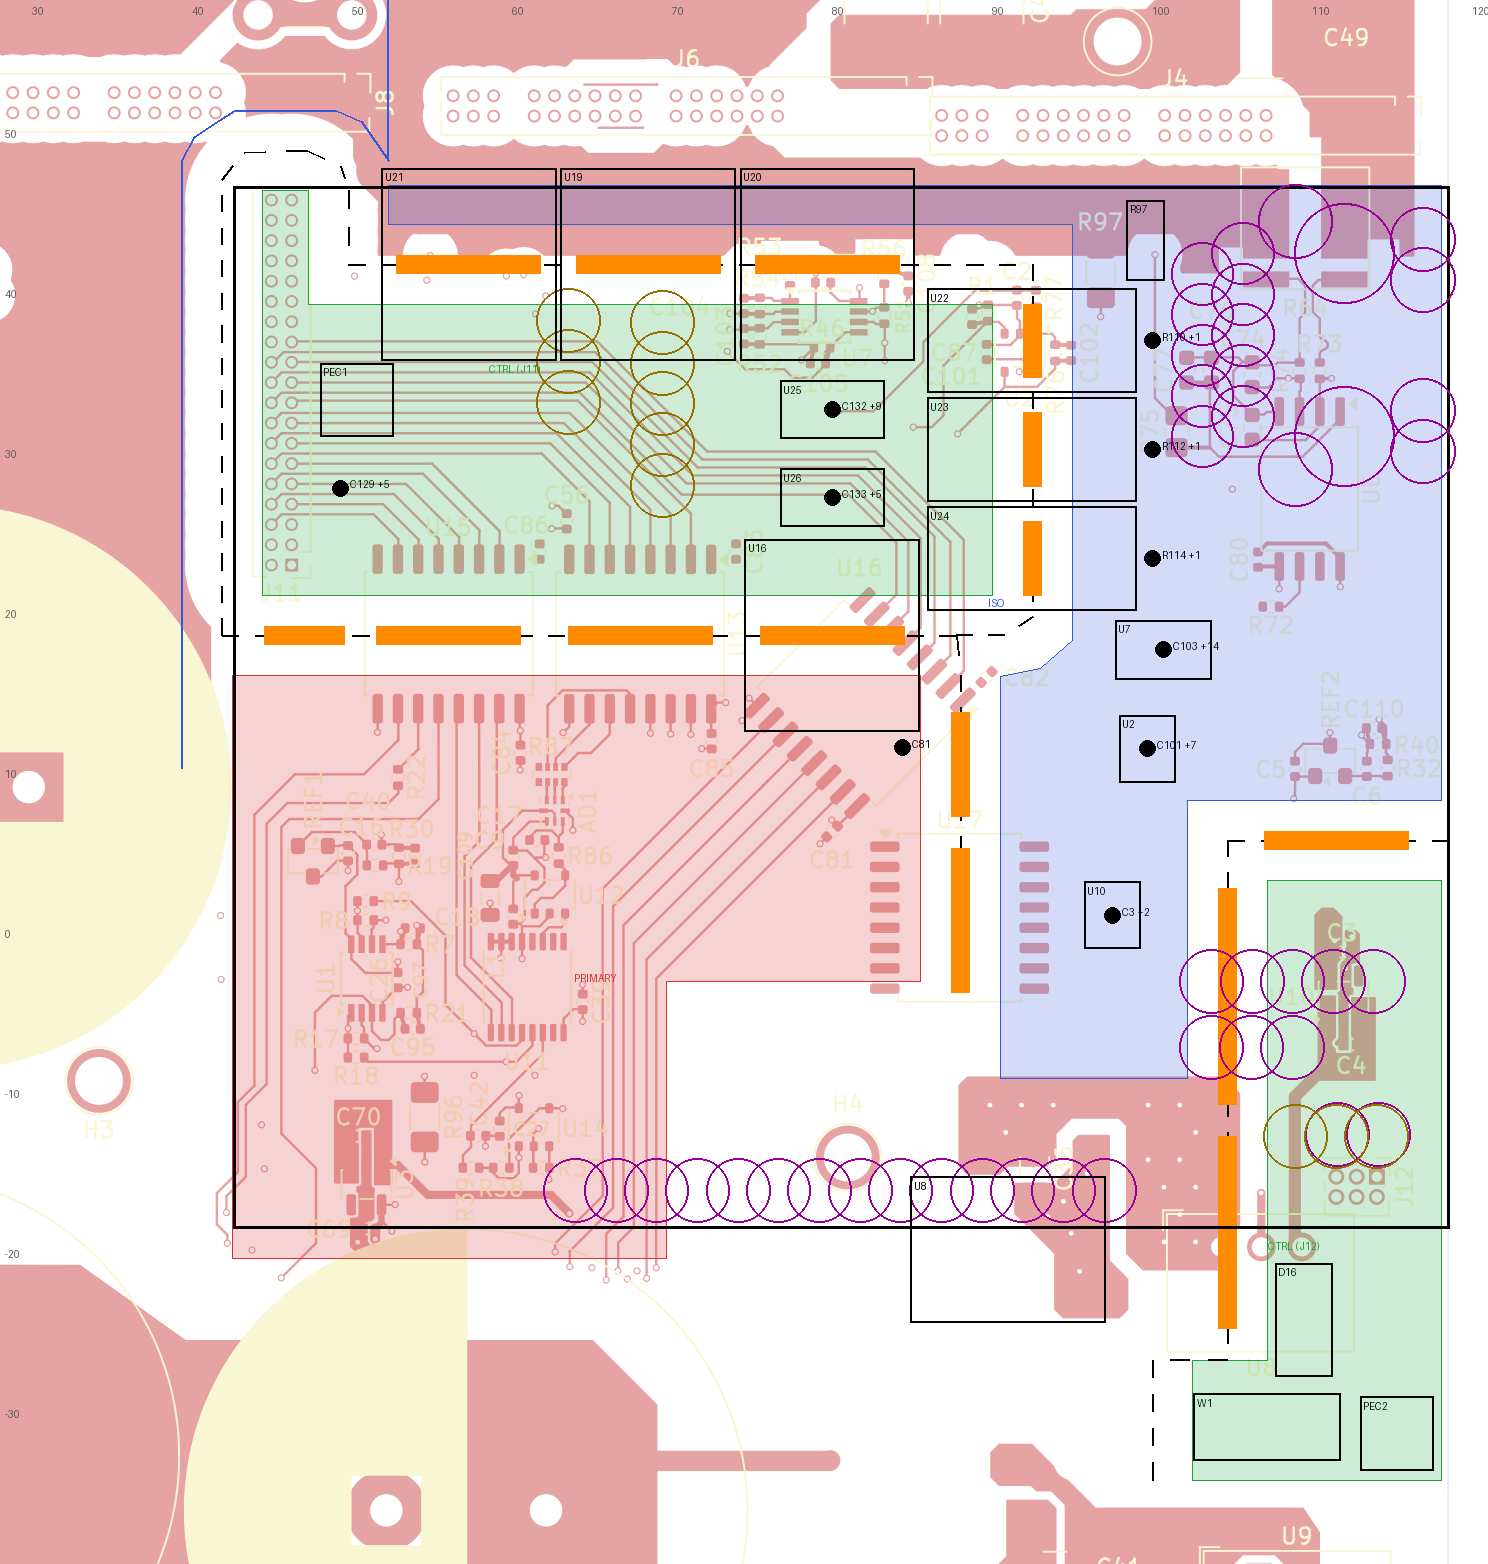
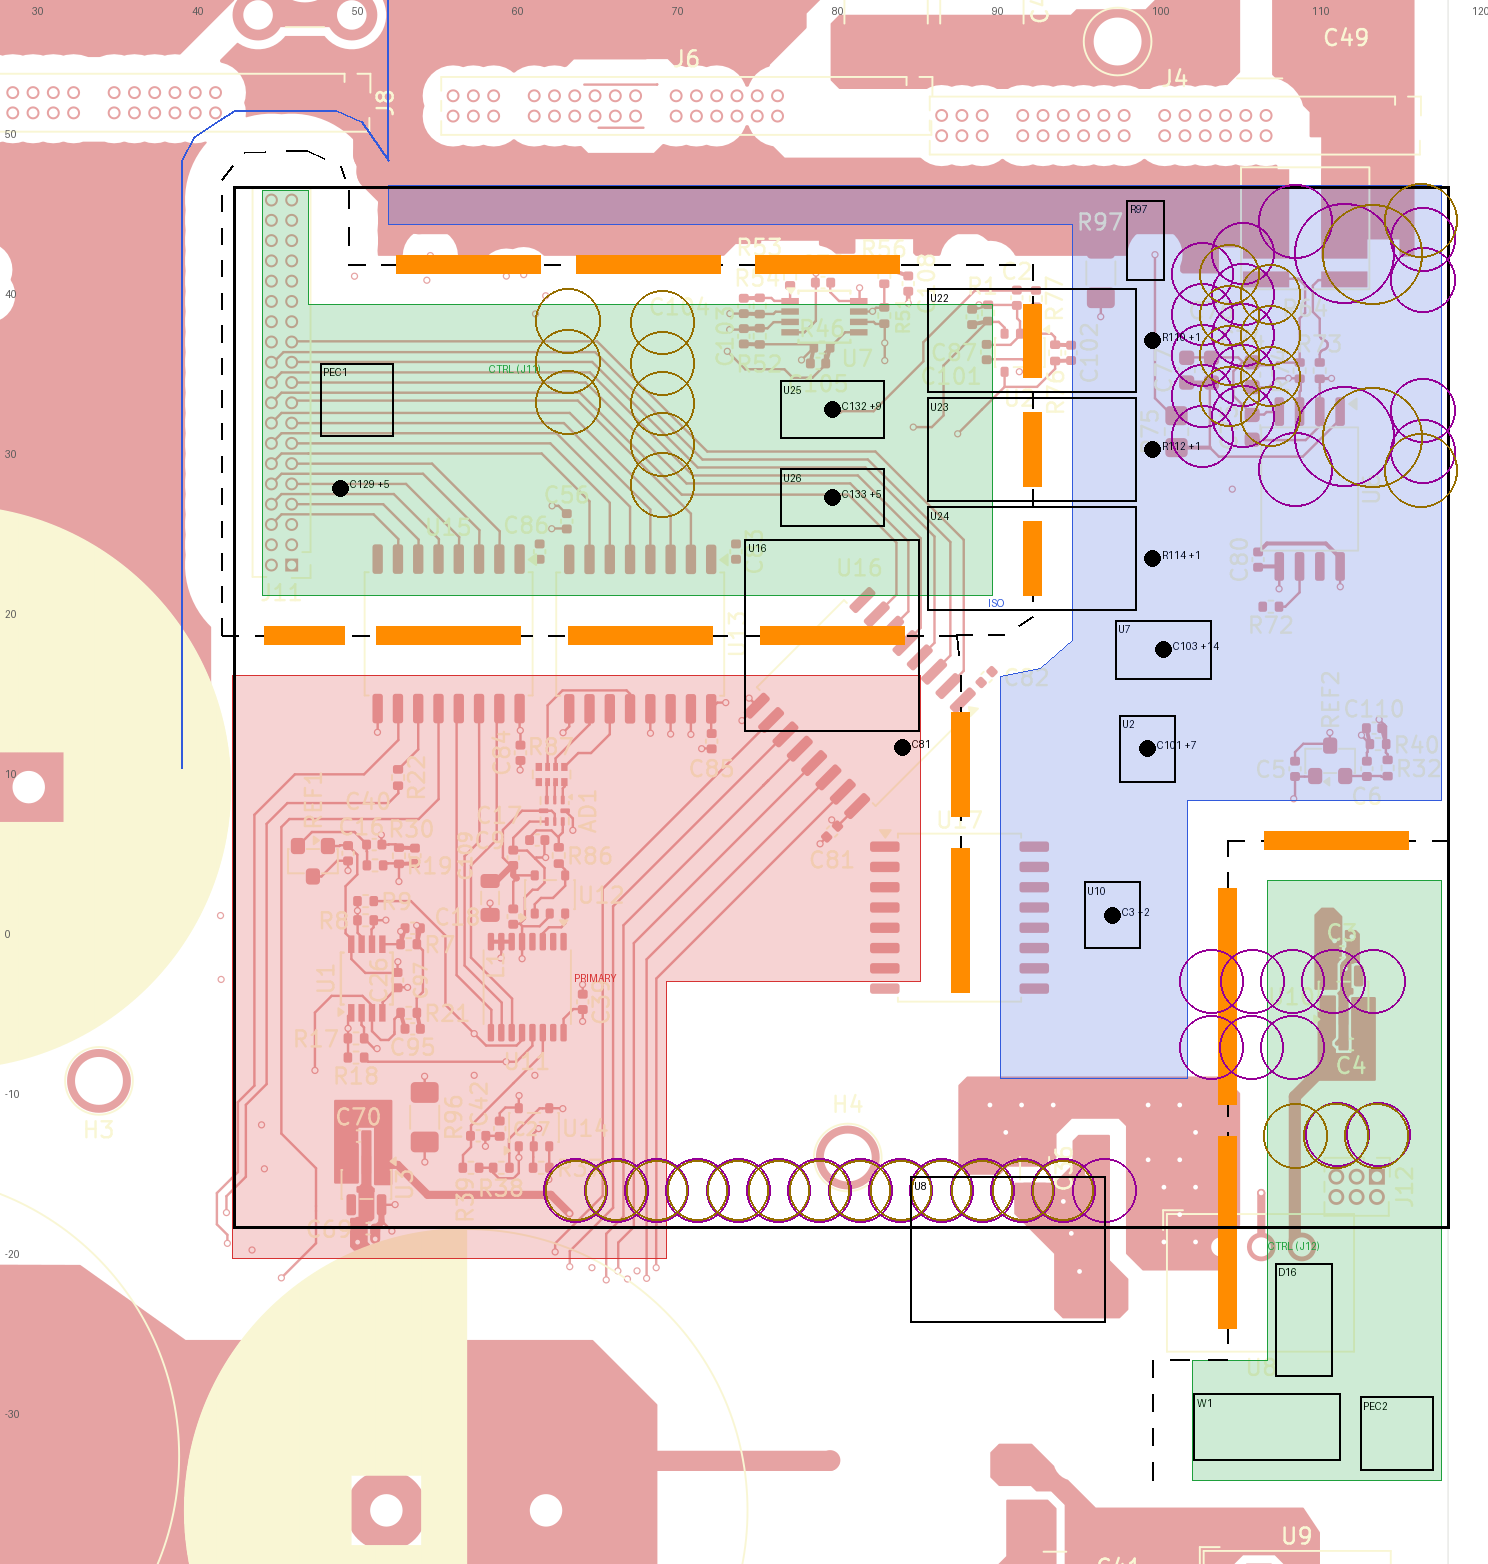
v5 layout proposal: the Ti60 card must fit - U19-U21 on the bottom, Ti60 holes as keep-outs
Claude-Session: https://claude.ai/code/session_01Am5hpeWpvZbzmHWspFiWJm

diff --git a/tools/v5/card_layout.py b/tools/v5/card_layout.py
@@ -63,10 +63,15 @@ CARD_HOLES = (
     + [("J9", 116.94, y, 1.02) for y in (29.8, 32.34, 40.51, 43.05)]
     + [("J9", 108.99, 44.17, 1.63), ("J9", 108.99, 28.68, 1.63), ("J9", 112.04, 42.14, 3.25), ("J9", 112.04, 30.71, 3.25)])
 KEEP_MARGIN = 1.5      # mm beyond the drill radius (pad ring + 1 mm)
-# The old Ti60F225 card's headers (MECHANICAL.md "Other Ti60 positions", + (11.068, -1.946)); open question
-TI60_HOLES = ([("Ti60 J1 JTAG", 69.40, 27.68 + 2.54 * i, 1.0) for i in range(5)]
-              + [("Ti60 J8 UART", 63.50, 32.86 + 2.54 * i, 1.0) for i in range(3)]
-              + [("Ti60 J3 5V", 108.96 + 2.54 * i, -13.0, 1.0) for i in range(3)])
+# The Ti60F225 card must fit too (user 2026-11-15). Its plated holes, from the IPC-D-356 netlist of
+# "ti60f225_psu_control_card - CADCAM.ZIP" (Ti60 frame + (11.068, -1.946)): JTAG, UART, 5 V header, LCD, RJ45.
+TI60_HOLES = ([("Ti60 J1 JTAG", 69.40, 27.68 + 2.54 * i, 1.016) for i in range(5)]
+              + [("Ti60 J8 UART", 63.50, 32.86 + 2.54 * i, 1.016) for i in range(3)]
+              + [("Ti60 J3 5V", 108.96 + 2.54 * i, -13.0, 1.016) for i in range(3)]
+              + [("Ti60 J4 LCD", 63.98 + 2.54 * i, -16.4, 0.8) for i in range(13)]
+              + [("Ti60 J2 RJ45", 107.40 if i % 2 == 0 else 104.86, 31.95 + 1.27 * i, 0.75) for i in range(8)]
+              + [("Ti60 J2 RJ45", 116.8, 28.6, 1.6), ("Ti60 J2 RJ45", 116.8, 44.2, 1.6),
+                 ("Ti60 J2 RJ45", 113.75, 30.68, 3.25), ("Ti60 J2 RJ45", 113.75, 42.11, 3.25)])
 H_TOP_UNDER_CARD, H_BOTTOM = 2.65, 10.0
 MOUNT_HOLE_R = 4.0     # bottom side: nothing within 4 mm of H1-H4 (H4 at (81.0, -14.5))
 
@@ -79,17 +84,16 @@ PLACE = {}
 # -- barrier parts --------------------------------------------------------------------------
 PLACE.update({
     "U16": ("CA|P", "F", 80.0, 18.3, "in line with U15/U13, rot -90 (was -135 at (81.8, 14.0))"),
-    "U21": ("CA|I", "F", 57.3, 41.5, "C pins south, ISO pins north; U4 path leaves west above J11"),
-    "U19": ("CA|I", "F", 68.5, 41.5, "PWM_Q5-Q8, TRANS4/5 -> J8/J6/J4 straight north"),
-    "U20": ("CA|I", "F", 79.7, 41.5, "DAB_PWM_HI/LO_SEC -> J4, TRANS6, relay"),
+    "U21": ("CA|I", "B", 57.3, 41.5, "bottom (Ti60 JTAG/UART tails above); C pins south, ISO pins north; U4 path leaves west above J11"),
+    "U19": ("CA|I", "B", 68.5, 41.5, "bottom (Ti60 JTAG/UART tails above); PWM_Q5-Q8, TRANS4/5 -> J8/J6/J4 straight north"),
+    "U20": ("CA|I", "B", 79.7, 41.5, "bottom (Ti60 JTAG/UART tails above); DAB_PWM_HI/LO_SEC -> J4, TRANS6, relay"),
     "U22": ("I|CA", "F", 92.5, 36.7, "ISOADA1: VIN side east, output side west"),
     "U23": ("I|CA", "F", 92.5, 29.9, "ISOADA2"),
     "U24": ("I|CA", "F", 92.5, 23.1, "ISOADA3"),
 })
 # -- CTRL piece at J11 ----------------------------------------------------------------------
-PLACE.update(_blk("C117 C119 C121", "CA", "B", 68.5, 36.9, "bottom, under pin 1 of U19/U20/U21 (two vias each)"))
-PLACE.update({"C121": ("CA", "B", 52.9, 36.9, "under U21 pin 1"), "C117": ("CA", "B", 64.1, 36.9, "under U19 pin 1"),
-              "C119": ("CA", "B", 75.3, 36.9, "under U20 pin 1"),
+PLACE.update({"C121": ("CA", "B", 61.75, 34.7, "bottom, south of U21 pin 1"), "C117": ("CA", "B", 72.95, 34.7, "bottom, south of U19 pin 1"),
+              "C119": ("CA", "B", 84.15, 34.7, "bottom, south of U20 pin 1"),
               "C82": ("CA", "B", 84.4, 23.0, "under U16 pin 1 (U16 moved)"),
               "C124": ("CA", "B", 87.2, 34.8, "under U22 pin 8"), "C126": ("CA", "B", 87.2, 28.0, "under U23 pin 8"),
               "C128": ("CA", "B", 87.2, 21.2, "under U24 pin 8")})
@@ -103,8 +107,8 @@ PLACE.update(_blk("U27 C134 C135 C136", "CA", "B", 62.5, 30.0, "3V3_CTRL LDO blo
 PLACE.update({"J14": ("CA", "B", 55.5, 30.0, "5 V link header, THT from the bottom (see open items: height)"),
               "PEC1": ("CA", "THT", 50.3, 33.0, "PE bond terminal; lug and screw on the bottom")})
 # -- ISO --------------------------------------------------------------------------------------
-PLACE.update({"C122": ("I", "B", 52.9, 46.1, "under U21 pin 16"), "C118": ("I", "B", 64.1, 46.1, "under U19 pin 16"),
-              "C120": ("I", "B", 75.3, 46.1, "under U20 pin 16"),
+PLACE.update({"C122": ("I", "B", 61.75, 48.3, "bottom, north of U21 pin 16"), "C118": ("I", "B", 72.95, 48.3, "bottom, north of U19 pin 16"),
+              "C120": ("I", "B", 84.15, 48.3, "bottom, north of U20 pin 16"),
               "C123": ("I", "B", 97.8, 34.8, "under U22 pin 1"), "C125": ("I", "B", 97.8, 28.0, "under U23 pin 1"),
               "C127": ("I", "B", 97.8, 21.2, "under U24 pin 1")})
 PLACE.update(_blk("R110 R111", "I", "F", 100.0, 36.7, "x0.4 divider at U22 VIN, column x 99.2..100.8"))

diff --git a/reports/v5_layout/proposal.md b/reports/v5_layout/proposal.md
@@ -6,6 +6,7 @@
 - Geometry: `tools/v5/card_layout.py` (areas, barrier lines, slots, keep-outs, rough positions).
 - Check and renders: `python3 tools/v5/layout_proposal.py` → `check.txt`, `parts.csv`, `proposal_*.png` here.
   It ends with `layout_proposal: OK`.
+- Updated 2026-11-15 after the user's answer: the Ti60 card must fit (finding 9).
 
 ## 1. Findings that change the plan
 
@@ -21,7 +22,7 @@ Decide these before phase 2. My recommendation is first in each row.
 | 6 | **Layer order.** The plan suggests In3 = ground, In4 = routing. In JLC's stack In4 is 0.10 mm from B.Cu and 0.55 mm from In3, so B.Cu would have no ground next to it. | In3 = routing, In4 = ground (section 4). Both outer layers then have a ground plane 0.10 mm away. |
 | 7 | **Heights of the hand-fit parts.** J14 is a vertical 2.54 mm header (8.5 mm, more with a plug): it cannot sit on top under the card (5.3 mm gap). PEC1's screw and lug do not fit there either. | J13 and J14 on the bottom, as right-angle headers or soldered wires (a plugged vertical header exceeds the 10 mm bottom limit). PEC1/PEC2 lugs on the bottom; on top only the trimmed pin. |
 | 8 | **Slots and strength.** Slots on every free run would leave the J11 piece hanging on narrow webs, and J11 takes the card's insertion force. | Slots under the nine isolators and U17, plus five runs (section 3). No slot on the west and north side of J11; ≥ 2 mm webs. The 5.0 mm copper gap alone meets the printed-wiring creepage there. |
-| 9 | **Old Ti60 card.** Its JTAG tails (x 69.4, y 27.7…37.8) and UART tails (x 63.5, y 32.9…37.9) land on the CTRL pads of U19 and U21. | Needs your answer: must the Ti60 card still fit? If yes, trim those tails flush, or I look for a row position that clears them. |
+| 9 | **The Ti60 card must fit too (user, 2026-11-15).** Its JTAG tails (x 69.4, y 27.7…37.8) and UART tails (x 63.5, y 32.9…37.9) would land on the CTRL pads of U19 and U21 if those sat on top. | **Decided: U19, U20 and U21 go on the bottom side**, at the same positions, with their decoupling next to them on the bottom. All Ti60 holes (JTAG, UART, 5 V header, LCD, RJ45, from its IPC netlist) are keep-outs now, next to the Ti135 card's. No placed or moved part lies under a tail of either card (`check.txt`). The Ti60 card's own bottom-side parts are small passives where new top-side parts go; nothing tall meets anything tall. |
 | 10 | Card J5 pin 8 at (81.76, −16.4) is 2.0 mm from the centre of mounting hole H4 (screw head). C36, R37 and U14 also sit under J5 tails. All are v4 parts and stay. | Trim the J5 tails (the card's STATUS already says so). No baseboard change. |
 
 ## 2. Parts
@@ -45,12 +46,13 @@ Where the groups go:
 | Group | Area | Side | Rough position |
 |---|---|---|---|
 | U15, U13 (fixed), U16 | CTRL (J11) \| primary | top | y 18.3, x 56.0 / 68.0 / 80.0; U16 turns from −135° to −90° |
-| U21, U19, U20 | CTRL (J11) \| ISO | top | y 41.5, x 57.3 / 68.5 / 79.7; CTRL pins south, ISO pins north |
+| U21, U19, U20 | CTRL (J11) \| ISO | **bottom** | y 41.5, x 57.3 / 68.5 / 79.7; CTRL pins south, ISO pins north |
 | U22, U23, U24 (AMC1311) | ISO \| CTRL (J11) | top | x 92.5, y 36.7 / 29.9 / 23.1; VIN side east |
 | U25, U26 and R116–R127, C132, C133 | CTRL (J11) | top | x 74.5…85.4, y 24.5…35.0, next to the AMC1311 outputs |
 | R128–R130, C129–C131 (output filters) | CTRL (J11) | top | x 48.0…50.4, y 24.6…30.5, at J11 pins 1/3/4 |
 | U27, C134–C136; J14; PEC1 | CTRL (J11) | bottom; THT | (62.5, 30.0); (55.5, 30.0); (50.3, 33.0) |
-| Isolator and AMC1311 decoupling (C82, C117–C128) | each side's area | bottom | under pin 1 / 16 / 8 of its IC, two vias each |
+| U16 and AMC1311 decoupling (C82, C123–C128) | each side's area | bottom | under pin 1 / 8 of its IC, two vias each |
+| U19–U21 decoupling (C117–C122) | each side's area | bottom | beside pin 1 (y 34.7) and pin 16 (y 48.3), same side as the IC |
 | R110–R115 (×0.4 dividers) | ISO | top | column x 99.2…100.8 at each AMC1311 VIN |
 | U7 block, U2 block | ISO | top | x 95.5…106.0, y 14.5…20.3; x 95.5…104.0, y 8.5…13.8 (next to REF2) |
 | U10, C3, C4; R97; U8, C93, C94 | ISO | as now | (97.5, 0.8); (99.6, 43.0); (91.0, −20.1) |
@@ -60,7 +62,7 @@ Where the groups go:
 | D16; W1; PEC2 | CTRL (J12) | top; THT | (109.5, −24.5); (107.2, −31.2); (115.3, −31.6) |
 
 Quality rules of the plan and how the proposal meets them:
-- U19/U20 ISO pins face J4/J6/J8 (3 mm below the J6 pads). PWM_Q5–Q8 and TRANS4–6 leave straight north.
+- U19/U20 ISO pins face J4/J6/J8 (3 mm below the J6 pads), on the bottom side. PWM_Q5–Q8 and TRANS4–6 leave straight north on B.Cu.
 - U21 is the west-most isolator: about 50 mm to U4 and 65 mm to U6.
 - U13/U15/U16 primary sides stay next to the primary logic.
 - The six divider taps of U7/U2 come from x −15…−2 (R67, R68, R71, R82, R85, R256). They now cross the top band
@@ -163,8 +165,8 @@ Total 1.54 mm plus solder mask. The board file holds 2.267 mm today (the Proteus
 Domain areas (green CTRL, red primary, blue ISO), barrier centre lines (dashed), slots (orange) and the proposed
 positions (black) over today's board:
 
-- [`proposal_F.png`](proposal_F.png): top side. Purple circles = the card's through-hole keep-outs; brown circles
-  = the old Ti60 card's headers (finding 9).
+- [`proposal_F.png`](proposal_F.png): top side. Purple circles = the Ti135 card's through-hole keep-outs; brown
+  circles = the Ti60 card's (finding 9).
 - [`proposal_B.png`](proposal_B.png): bottom copper (seen from the top) with the bottom-side parts.
 - [`proposal_In1.png`](proposal_In1.png), [`proposal_In2.png`](proposal_In2.png): today's planes under the new areas.
 
@@ -213,6 +215,6 @@ I would use KRT, because it is already proven on your boards. Your choice.
 2. Finding 6: In3 routing / In4 ground instead of the plan's order?
 3. Finding 7: J13/J14 as right-angle headers or soldered wires on the bottom?
 4. Finding 8: the slot list of section 3, with no slot around J11's west and north side?
-5. Finding 9: must the old Ti60 card still fit on this baseboard?
+5. ~~Must the Ti60 card still fit?~~ Yes (user, 2026-11-15): U19–U21 on the bottom.
 6. Stack-up JLC06161H-3313 with 0.5 oz inner copper?
 7. Section 8: routing in the GUI as planned, or a routing agent for the low-voltage card-area nets first?
